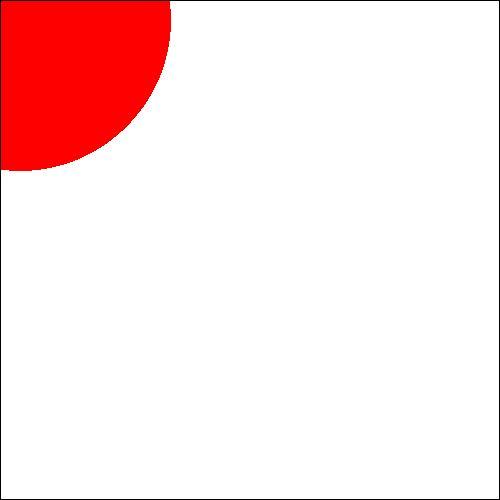
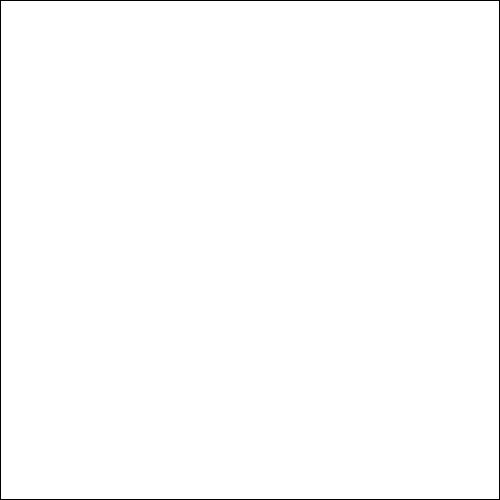
Explicación creación imagen

Changed region(s): [[0.0, 0.0, 0.36, 0.36]]

diff --git a/web/aplicacion/relacion7/index.php b/web/aplicacion/relacion7/index.php
@@ -28,10 +28,20 @@ $datos = [
 
 //nombre archivo
 $nombreArchivo = creaNombreArchivoSinExtension()  . ".jpg";
+$nombreArchivoDat = creaNombreArchivoSinExtension()  . ".dat";
+
+
 
 //creamos imagen si no existe
-if (!file_exists(RUTABASE . "/imagenes/puntos/". $nombreArchivo))
+if (!file_exists(RUTABASE . "/imagenes/puntos/". $nombreArchivo)) {
     recargarImagen($nombreArchivo, $puntos);
+}
+
+//leemos de fichero si existe
+if (file_exists(RUTABASE . "/ficheros/". $nombreArchivoDat)) {
+    leerDeFichero($nombreArchivoDat, $puntos);
+    recargarImagen($nombreArchivo, $puntos);
+}
 
 //comprobar si se ha dado a insertar 
 if (isset($_POST["guardar"])) {
@@ -124,7 +134,7 @@ if (isset($_POST["guardar"])) {
         $x = $datos["coordX"];
         $y = $datos["coordY"];
         $color = $datos["colores"]; //color en inglés
-        $grosor = $datos["grosores"]; //índice
+        $grosor = $datos["grosores"][0]; //índice
 
         $obPunto = new Punto($x, $y, $color, $grosor);
 
@@ -137,6 +147,10 @@ if (isset($_POST["guardar"])) {
         escribirAFichero($nombreFichero, $puntos);
 
         recargarImagen($nombreArchivo, $puntos);
+
+        //redirigir para limpiar el POST y evitar duplicados al pulsar F5 (antes de que cabecera imprima algo)
+        header("Location: ./index.php");
+        exit;
     }
 }
 
@@ -172,15 +186,17 @@ function cuerpo(array $datos, array $errores, array $puntos, string $nombreArchi
 
     
     formulario($datos, $errores);
+    echo "<br>".PHP_EOL;
+    formularioCombo($puntos);
     
     ?>
 
     <br>
     
 
-    <textarea name="cajaTexto" cols="65" rows="10"><?php foreach ($puntos as $punto) {
+    <textarea name="cajaTexto" cols="75" rows="10" readonly><?php foreach ($puntos as $indice => $punto) {
 
-            echo "Coordenada x: ". $punto->getX() . ". Coordenada Y: " .
+            echo "Punto: ".$indice.". Coordenada x: ". $punto->getX() . ". Coordenada Y: " .
                     $punto->getY() . ". Color: " . $punto->getColor() . 
                     ". Grosor: " . $punto->getGrosor() . ".\n";
         }
@@ -200,6 +216,30 @@ function cuerpo(array $datos, array $errores, array $puntos, string $nombreArchi
 
 }
 
+function formularioCombo(array $arrayPuntos) {
+
+    ?>
+
+    <form action="./index.php" method="post"> 
+        <select name="comboPuntos">
+            <?php
+                foreach ($arrayPuntos as $indice => $punto) {
+                    ?>
+                        <option value="<?= $indice ?>">
+                            <?php echo "Punto " . $indice . " - x:".$punto->getX()." - y:".
+                                        $punto->getY()." - ".$punto->getColor(). " - ".$punto->getGrosor(); ?>
+                        </option>
+
+                    <?php
+                }
+            ?>
+        </select>
+        <input type="submit" value="">
+    </form>
+
+    <?php
+}
+
 /**
  * Función que muestra el formulario
  *
@@ -212,7 +252,7 @@ function formulario(array $datos, array $errores) {
     
     ?>
 
-    <form action="" method="post"> 
+    <form action="./index.php" method="post"> 
         <label for="coordX">Coordenada X: </label>
         <input type="text" name="coordX" value="<?= $datos["coordX"] ?>">
         <?php muestraErrores($errores, "coordX") ?><br>
@@ -249,7 +289,7 @@ function formulario(array $datos, array $errores) {
             // El array $datos["grosores"] guarda de forma (0 = "2") o sea, tiene índice
             // y el valor es el índice de Punto::GROSORES
             ?>
-            <input type="checkbox" name="arrayCheck[]" value="<?= $indice ?>" <?= (validaRango($indice, $datos["grosores"], 1)?"checked":"") ?>>
+            <input type="radio" name="arrayCheck[]" value="<?= $indice ?>" <?= (validaRango($indice, $datos["grosores"], 1)?"checked":"") ?>>
             <label for="<?= $indice ?>"><?= $valor ?></label> <br>
             <?php
 
@@ -304,7 +344,7 @@ function recargarImagen(string $nombreImagen, array $arrayPuntos) : void {
             $colorPunto = imagecolorallocate($imagen, $rgbArrayPunto[0], $rgbArrayPunto[1], $rgbArrayPunto[2]);
 
             imagefilledellipse($imagen, $punto->getX(), $punto->getY(), 
-                            $punto->getGrosor() * 100, $punto->getGrosor() * 100,
+                            $punto->getGrosor() * 10, $punto->getGrosor() * 10,
                             $colorPunto); //primero le ponemos el color blanco por defecto
 
             
@@ -328,7 +368,7 @@ function creaNombreArchivoSinExtension() : string {
     $ipConGuiones = mb_ereg_replace("\.", "_", $ip) . "_";
 
     $cadenaNavegador = $_SERVER["HTTP_USER_AGENT"];
-    echo $cadenaNavegador;
+    
 
     $resultadosNavegadores = [];
     $navegador = "";
@@ -374,7 +414,7 @@ function escribirAFichero(string $nombre, ?array $datos = null): bool
 
     //se abre el fichero para escritura 
     //si existe se borra el contenido 
-    $fic = fopen($ruta, "w");  //w modo escritura
+    $fic = fopen($ruta, "w");  //a modo escritura colocando el puntero al final
     if (!$fic) //si no se puede abrir, se devuelve false porque se ha producido un error
         return false;
 
@@ -383,7 +423,8 @@ function escribirAFichero(string $nombre, ?array $datos = null): bool
     {
         $linea = "";
         
-        $linea .= $punto->getCoordX() . " ; ";
+        $linea .= $punto->getX() . " ; " . $punto->getY() . " ; " . 
+                    $punto->getColor() . " ; " . $punto->getGrosor();
         
         $linea .= "\r\n";
 
@@ -393,5 +434,61 @@ function escribirAFichero(string $nombre, ?array $datos = null): bool
 
     //se cierra el fichero 
     fclose($fic);
+    return true;
+}
+
+/** 
+ * funcion para leer de un fichero 
+ * @paramstring $nombre nombre del fichero 
+ * @parammixed $datos valores  
+ * @returnbool devuelve si ejecuta correctamente o hay algún error 
+ */
+function leerDeFichero(string $nombre, array &$datos): bool
+{
+    //ruta en la que se guardará el fichero 
+    //$ruta=$_SERVER["DOCUMENT_ROOT"]."/ficheros"; 
+    $ruta = RUTABASE . "/ficheros";
+
+    //si no existe la ruta se crea 
+    if (!file_exists($ruta))
+        mkdir($ruta);
+
+    //LE CONCATENAMOS EL NOMBRE DEL FICHERO CON LA EXTENSIÓN
+    $ruta .= "/$nombre";
+
+    if (!isset($datos)) {
+        return false;
+    }
+    //se abre el fichero para lectura 
+    //debe existir 
+    $fic = fopen($ruta, "r");
+    if (!$fic)
+        return false;
+
+    //borro el contenido del array 
+    foreach ($datos as $pos => $valor) {
+        unset($datos[$pos]);
+    }
+
+    //leo el fichero linea a linea 
+    while ($linea = fgets($fic)) {
+        $linea = str_replace("\r", "", $linea);
+        $linea = str_replace("\n", "", $linea);
+
+        if ($linea != "") {
+            //$linea = explode(" ; ", $linea);
+
+            //creamos el punto
+            $partesLinea = mb_split(" ; ", $linea); //tiene 4 partes (x, y, color, grosor)
+
+            $obPunto = new Punto($partesLinea[0], $partesLinea[1], $partesLinea[2], $partesLinea[3]);
+
+            $datos[] = $obPunto;
+        }
+    }
+
+    //se cierra el fichero 
+    fclose($fic);
+
     return true;
 }

diff --git a/web/aplicacion/pruebas/pruebaimagen.php b/web/aplicacion/pruebas/pruebaimagen.php
@@ -1,0 +1,72 @@
+<?php
+include_once(dirname(__FILE__) . "/../../cabecera.php");
+//controlador
+
+$barraUbicacion = [
+    [
+        "nombre" => "Inicio",
+        "url" => "/index.php"
+    ],
+    [
+        "nombre" => "Pruebas",
+        "url" => "/aplicacion/pruebas/index.php"
+    ],
+    [
+        "nombre" => "Imágenes"
+    ],
+
+];
+
+$nombreFichero = RUTABASE . "/imagenes/pruebaimagen.jpg";
+$crear = true;
+
+if ($crear) {
+    $imagen = imagecreatetruecolor(250, 250);
+
+    //genero el color azul
+    $color = imagecolorallocate($imagen, 0, 0, 255);
+    //rellena un rectángulo
+    imagefilledrectangle($imagen, 10, 10, 190, 190, $color);
+    //dibujo una línea blanca
+    $color = imagecolorallocate($imagen, 255, 255, 255);
+    imageline($imagen, 10, 10, 100, 15, $color);
+
+
+
+    imagejpeg($imagen, $nombreFichero);
+
+}
+
+if (isset($_GET["descargar"])) {
+    $imagen = imagecreatefromjpeg($nombreFichero);
+    $color = imagecolorallocate($imagen, 255, 255, 255);
+    imagestring($imagen, 2, 100, 100, "marca agua", $color);
+    header('Content-Disposition:attachment; filename="imagen.jpg"');
+    imagejpeg($imagen);
+    exit;
+
+}
+
+
+
+
+//dibuja la plantilla de la vista
+inicioCabecera("APLICACION PRIMER TRIMESTRE");
+cabecera();
+finCabecera();
+inicioCuerpo("Imágenes", $barraUbicacion);
+cuerpo(); //llamo a la vista
+finCuerpo();
+// **********************************************************
+//vista
+function cabecera() {}
+//vista
+function cuerpo()
+{
+    ?>
+    <img src="/imagenes/pruebaimagen.jpg" alt="Imagen">
+    <a href="?descargar" name="descargar">Descargar</a>
+
+    <?php
+
+}

diff --git a/web/cabecera.php b/web/cabecera.php
@@ -51,6 +51,6 @@ include(RUTABASE."/aplicacion/plantilla/plantilla.php");
 //creo todos los objetos que necesita mi aplicación
 $puntos = [];
 
-$puntos[] = new Punto(10, 10, "black", 1);
-$puntos[] = new Punto(15, 15, "green", 2);
-$puntos[] = new Punto(20, 20, "red", 3);
+// $puntos[] = new Punto(10, 10, "black", 1);
+// $puntos[] = new Punto(15, 15, "green", 2);
+// $puntos[] = new Punto(20, 20, "red", 3);

diff --git a/web/aplicacion/pruebas/index.php b/web/aplicacion/pruebas/index.php
@@ -44,5 +44,6 @@ function cuerpo()
     <a href="cargapagina.php">carga página</a><br>
     <a href="otrapagina.php">otra página</a><br>
     <a href="pruebaficheros.php">FICHEROS</a><br>
+    <a href="pruebaimagen.php">Prueba imagen</a><br>
 <?php
 }
